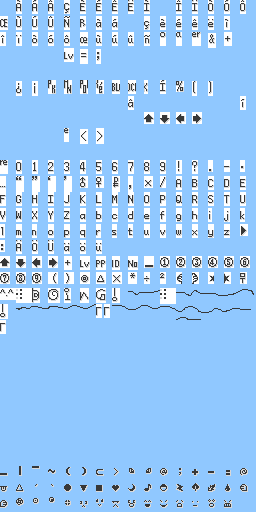
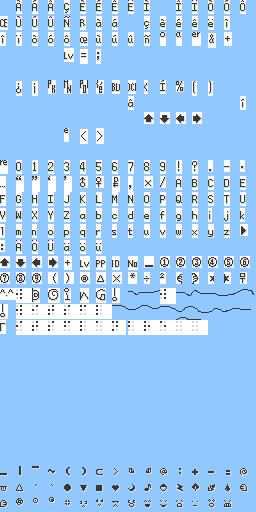
Rumor log fixes and braille

Changed region(s): [[0.0625, 0.5938, 0.8125, 0.6562]]

diff --git a/src/data/pokemon/evolution.h b/src/data/pokemon/evolution.h
@@ -30,7 +30,8 @@ const struct Evolution gEvolutionTable[NUM_SPECIES][EVOS_PER_MON] =
     [SPECIES_SEVIPER]     = {{EVO_LEVEL, 55, SPECIES_KRABBY}},
 
     [SPECIES_SANDSHREW]  = {{EVO_LEVEL, 20, SPECIES_SANDSLASH},
-                            {EVO_ITEM, ITEM_RAT_STONE, SPECIES_MEOWTH}},
+                        //    {EVO_ITEM, ITEM_RAT_STONE, SPECIES_MEOWTH}
+                        },
 
     [SPECIES_NIDORAN_F]  = {{EVO_LEVEL, 16, SPECIES_NIDORINO}},
     [SPECIES_NIDORINA]   = {{EVO_ITEM, ITEM_DAWN_STONE, SPECIES_NIDOQUEEN}},
@@ -44,7 +45,8 @@ const struct Evolution gEvolutionTable[NUM_SPECIES][EVOS_PER_MON] =
     [SPECIES_ZUBAT]      = {{EVO_ITEM, ITEM_W_EMBLEM, SPECIES_WOOBAT}}, //Zubat evolves from the Seafoam Island quest
 
     [SPECIES_RAICHU]     = {{EVO_TRADE, 0, SPECIES_MEOWTH},
-                            {EVO_ITEM, ITEM_RAT_STONE, SPECIES_MEOWTH}},
+                        //    {EVO_ITEM, ITEM_RAT_STONE, SPECIES_MEOWTH}
+                        },
 
     [SPECIES_PARAS]      = {{EVO_ITEM, ITEM_SUN_STONE, SPECIES_PARASECT}},
 
@@ -121,7 +123,7 @@ const struct Evolution gEvolutionTable[NUM_SPECIES][EVOS_PER_MON] =
                             {EVO_ITEM, ITEM_DAWN_STONE, SPECIES_SYLVEON},
                             {EVO_ITEM, ITEM_SOUL_DEW, SPECIES_LATIAS},
                             {EVO_ITEM, ITEM_LEAF_STONE, SPECIES_EEVEE},
-                            {EVO_ITEM, ITEM_RAT_STONE, SPECIES_EEVEE},
+                           // {EVO_ITEM, ITEM_RAT_STONE, SPECIES_EEVEE},
                             {EVO_ITEM, ITEM_FIRE_STONE, SPECIES_EEVEE},
                             {EVO_ITEM, ITEM_SUN_STONE, SPECIES_EEVEE}},
 
@@ -255,7 +257,7 @@ const struct Evolution gEvolutionTable[NUM_SPECIES][EVOS_PER_MON] =
     [SPECIES_BUTTERFREE]     = {{EVO_LEVEL, 55, SPECIES_KRABBY}},
     [SPECIES_PRIMEAPE]     = {{EVO_LEVEL, 55, SPECIES_KRABBY}},
     [SPECIES_SANDSLASH]     = {{EVO_LEVEL, 55, SPECIES_KRABBY}},
-    [SPECIES_PIKABLU]     = {{EVO_ITEM, ITEM_RAT_STONE, SPECIES_MEOWTH}},
+    [SPECIES_PIKABLU]     = {{EVO_LEVEL, 55, SPECIES_KRABBY}},
     [SPECIES_JIGGLYPUFF_ABOVE]     = {{EVO_LEVEL, 55, SPECIES_KRABBY}},
     [SPECIES_JIGGLYPUFF]     = {{EVO_LEVEL, 55, SPECIES_KRABBY}},
     [SPECIES_NIDOQUEEN]     = {{EVO_LEVEL, 55, SPECIES_KRABBY}},

diff --git a/src/move_descriptions.c b/src/move_descriptions.c
@@ -176,7 +176,7 @@ const u8 gMoveDescription_Nightmare[] = _("A sleeping foe is\nshown a nightmare\
 const u8 gMoveDescription_FlameWheel[] = _("The user makes a\nfiery charge at the\nfoe. It may cause\na burn.");
 const u8 gMoveDescription_Snore[] = _("An attack that can\nbe used only while\nasleep. It may\ncause flinching.");
 const u8 gMoveDescription_Curse[] = _("Readers beware!\nYou're in for a\nSWEAR!");
-const u8 gMoveDescription_Flail[] = _("Absolute flailure.");
+const u8 gMoveDescription_Flail[] = _("{BRAILLE_I} {BRAILLE_T} {BRAILLE_S}  {BRAILLE_F} {BRAILLE_L} {BRAILLE_A} {BRAILLE_I} {BRAILLE_L}\n{BRAILLE_I} {BRAILLE_N}  {BRAILLE_B} {BRAILLE_R} {BRAILLE_A} {BRAILLE_I} {BRAILLE_L} {BRAILLE_L} {BRAILLE_E}");
 const u8 gMoveDescription_Conversion2[] = _("I stand corrected");
 const u8 gMoveDescription_Aeroblast[] = _("Surely THIS will\nbe SPECIAL-based,\nright?");
 const u8 gMoveDescription_CottonSpore[] = _("Cotton-like spores\ncling to the foe,\nsharply reducing\nits SPEED stat.");
@@ -1004,7 +1004,7 @@ const u8 gMoveDescription_doublefuryswipe[] = _("That's");
 const u8 gMoveDescription_neutralmetronome[] = _("He is neutral\nabout these\nmatters.");
 const u8 gMoveDescription_playday[] = _("I can't wait\nto see my friends\nat the park!");
 const u8 gMoveDescription_payrough[] = _("mafia shakedown");
-const u8 gMoveDescription_vineslap[] = _("For what reason is\nthis attack so\nextraordinarily\nfriggin' awful?");
+const u8 gMoveDescription_vineslap[] = _("For what reason is\nthis attack so\nblasphemously, matron\nfornicatingly awful?");
 const u8 gMoveDescription_puncture[] = _("At this juncture,\nwe puncture");
 const u8 gMoveDescription_blunderbolt[] = _("thunderblunder77");
 const u8 gMoveDescription_faultergeist[] = _("Ah shoot, the\nTV is on the\nfritz again.");

diff --git a/src/data/pokemon/species_info.h b/src/data/pokemon/species_info.h
@@ -20664,7 +20664,7 @@ const struct SpeciesInfo gSpeciesInfo[] =
         .baseSpDefense = 90,
         .types = {TYPE_GHOST, TYPE_GRASS},
         .catchRate = 255,
-        .expYield = 150,
+        .expYield = 20,
         .evYield_HP = 1,
         .evYield_Attack = 1,
         .evYield_Defense = 1,
